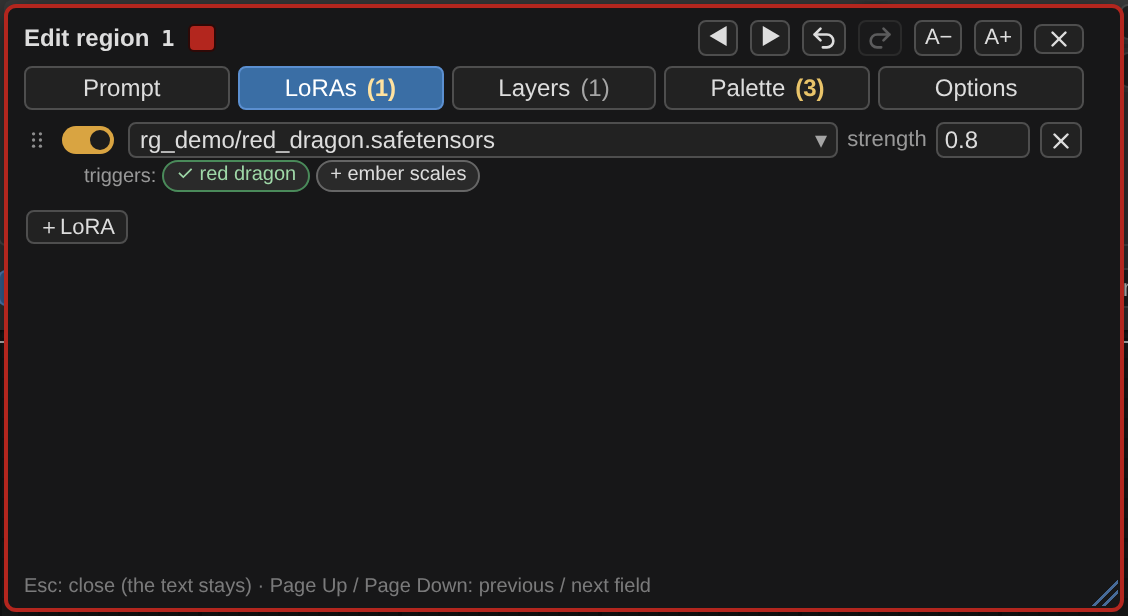
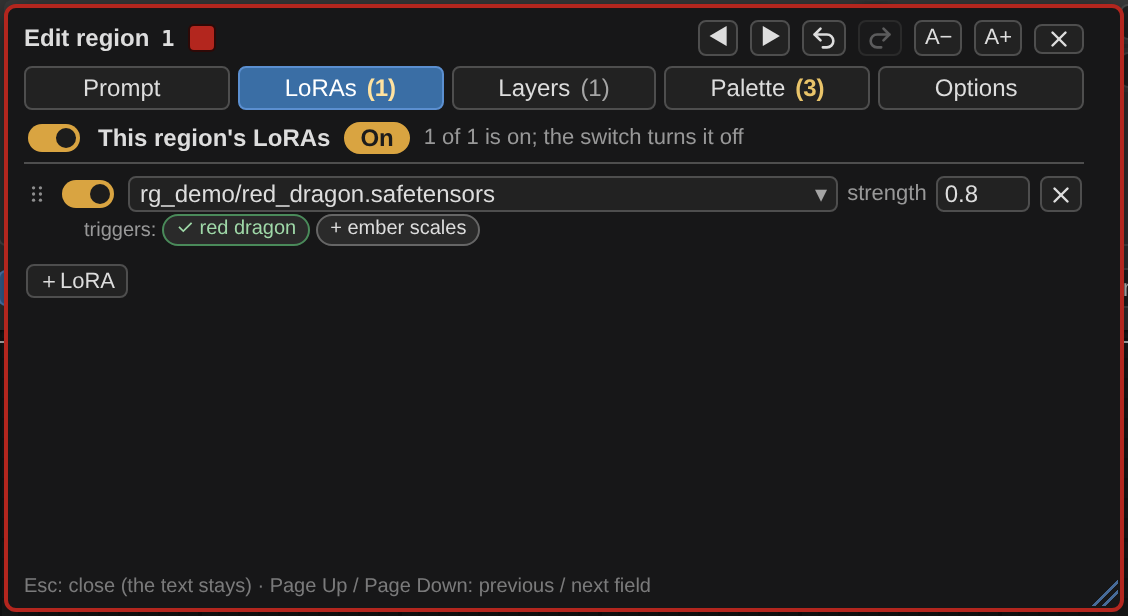
LoRAs tab: a switch for all of the list's LoRAs (this region's / the whole image's); a pop-up keeps the keyboard focus when its own control is redrawn
Claude-Session: https://claude.ai/code/session_01B5U1gpBZHxaHUVoHyaNrX1

Changed region(s): [[0.0, 0.1851, 0.9619, 0.4935]]

diff --git a/js/editor/popups.js b/js/editor/popups.js
@@ -120,6 +120,12 @@ export function* popups(E) {
         return true;
     }
     // never a scroll bar: when what a pop-up holds is taller than the pop-up (a LoRA was added), it grows, up to the window
+    // A control of a pop-up that is redrawn by its own click (a switch, a LoRA row) loses the keyboard focus with its
+    // old element: the pop-up takes it, so Esc and the Undo keys still reach it. Only when nothing else has the focus.
+    function popKeepFocus(box) {
+        const a = document.activeElement;
+        if (box.isConnected && (!a || a === document.body)) box.focus({ preventScroll: true });
+    }
     function popFit(box) {
         const over = box.scrollHeight - box.clientHeight, H = window.innerHeight;
         if (over <= 1) return;
@@ -127,7 +133,11 @@ export function* popups(E) {
         if (box.offsetTop + box.offsetHeight > H - 6) box.style.top = Math.max(6, H - 6 - box.offsetHeight) + "px";
     }
     // the LoRAs tab of a pop-up: the rows (or a line that says there are none), and ＋LoRA under them
-    function fillLoraTab(rowsBox, addBox, list, rows, tip, onAdd) {
+    // headBox, label: the switch for all of the list's LoRAs (round 90), above the rows while there are any
+    function fillLoraTab(headBox, label, rowsBox, addBox, list, rows, tip, onAdd) {
+        const sw = E.loraSwitch(list, label);
+        headBox.replaceChildren(...(sw ? [sw] : []));
+        headBox.style.display = sw ? "" : "none";
         if (E.ownLoras(list).length) rowsBox.replaceChildren(rows());
         else { const h = E.el("span", "rg-hint"); h.textContent = "No LoRAs here yet."; rowsBox.replaceChildren(h); }
         addBox.replaceChildren(E.ico("＋LoRA", tip, onAdd, "txt"));
@@ -325,11 +335,11 @@ export function* popups(E) {
         const tabs = popTabs([["prompt", "Prompt", TAB_TIPS.prompt], ["loras", "LoRAs", TAB_TIPS.loras], ["layers", "Layers", TAB_TIPS.layers],
                               ["palette", "Palette", TAB_TIPS.palette], ["options", "Options", TAB_TIPS.options]], tab,
                              (id) => { if (id === "prompt") prompt.ta.focus(); else box.focus(); });
-        const loraRowsBox = E.el("div", "rg-pop-lorarows"), loraAddBox = E.el("div", "rg-row rg-pop-addl");
+        const loraRowsBox = E.el("div", "rg-pop-lorarows"), loraAddBox = E.el("div", "rg-row rg-pop-addl"), loraHeadBox = E.el("div", "rg-pop-lorahead");
         const layerRowsBox = E.el("div", "rg-pop-layers"), layerBar = E.el("div", "rg-row rg-pop-addl");
         const palBox = E.el("div", "rg-pop-pal"), optBox = E.el("div", "rg-pop-opts");
         tabs.pane.prompt.append(types, prompt.wrapF, text.wrapF, dyn);
-        tabs.pane.loras.append(loraRowsBox, loraAddBox);
+        tabs.pane.loras.append(loraHeadBox, loraRowsBox, loraAddBox);
         tabs.pane.layers.append(layerRowsBox, layerBar);
         tabs.pane.palette.append(palBox);
         tabs.pane.options.append(optBox);
@@ -410,7 +420,7 @@ export function* popups(E) {
                 // the LoRAs tab (round 87; they were rows under the prompt)
                 const n = E.loraCount(rr.loras);
                 tabs.count("loras", n.all ? (n.on === n.all ? String(n.on) : `${n.on}/${n.all}`) : "", n.on > 0);
-                fillLoraTab(loraRowsBox, loraAddBox, rr.loras, () => E.regionLoraRows(rr, true),
+                fillLoraTab(loraHeadBox, "This region's LoRAs", loraRowsBox, loraAddBox, rr.loras, () => E.regionLoraRows(rr, true),
                     "Apply a LoRA to this region (model output; MOSS-Image, Krea 2, Ideogram 4, Flux, Anima, SDXL / SD1.5)",
                     (e) => { rr.loras = rr.loras || []; E.addLoraTo(rr.loras, e); });
                 ed.place();
@@ -424,7 +434,7 @@ export function* popups(E) {
                 if (!rect) { placeBy(box, { left: cr.left, right: cr.right, top: cr.top - 4, bottom: cr.top - 4 }, w, h, W, H, true); return; }
                 placeBy(box, { left: cr.left + rect.x0 * k, right: cr.left + rect.x1 * k, top: cr.top + rect.y0 * k - 2,
                                bottom: cr.top + rect.y1 * k + 2 }, w, h, W, H, true);
-            }); popFit(box); },
+            }); popFit(box); popKeepFocus(box); },
         };
         E.editor = ed;
         popFrame(ed, "region", head, () => (lastTa === text.ta ? "text" : "prompt"),
@@ -496,9 +506,9 @@ export function* popups(E) {
         // the scene prompt's pop-up has the whole image's LoRAs on a tab of their own (round 87); the others have one pane
         const tabs = popTabs(pos ? [["prompt", "Prompt", TAB_TIPS.prompt], ["loras", "LoRAs", TAB_TIPS.loras]] : [["prompt", "Prompt", TAB_TIPS.prompt]], tab,
                              (id) => { if (id === "prompt") ta.focus(); else box.focus(); });
-        const loraRowsBox = E.el("div", "rg-pop-lorarows"), loraAddBox = E.el("div", "rg-row rg-pop-addl");
+        const loraRowsBox = E.el("div", "rg-pop-lorarows"), loraAddBox = E.el("div", "rg-row rg-pop-addl"), loraHeadBox = E.el("div", "rg-pop-lorahead");
         tabs.pane.prompt.append(useRow, wrapF, dyn);
-        if (pos) tabs.pane.loras.append(loraRowsBox, loraAddBox);
+        if (pos) tabs.pane.loras.append(loraHeadBox, loraRowsBox, loraAddBox);
         box.tabIndex = -1;
         box.append(head, tabs.bar, tabs.panes, foot);
         document.body.appendChild(box);
@@ -526,7 +536,7 @@ export function* popups(E) {
                 dyn.replaceChildren(ctl);
                 const n = E.loraCount(E.state.sceneLoras);
                 tabs.count("loras", n.all ? (n.on === n.all ? String(n.on) : `${n.on}/${n.all}`) : "", n.on > 0);
-                fillLoraTab(loraRowsBox, loraAddBox, E.state.sceneLoras, () => E.loraRows(E.state.sceneLoras, {
+                fillLoraTab(loraHeadBox, "The whole image's LoRAs", loraRowsBox, loraAddBox, E.state.sceneLoras, () => E.loraRows(E.state.sceneLoras, {
                     pop: true, sceneOnly: true,
                     prompt: () => String(E.sceneW?.value ?? ""),
                     append: (words) => {
@@ -553,7 +563,7 @@ export function* popups(E) {
                 if (r && r.width) { placeBy(box, r, wd, h, W, H); return; }
                 const cr = E.cv.getBoundingClientRect();
                 placeBy(box, { left: cr.left, right: cr.right, top: cr.top - 4, bottom: cr.top - 4 }, wd, h, W, H, true);
-            }); popFit(box); },
+            }); popFit(box); popKeepFocus(box); },
         };
         E.editor = ed;
         popFrame(ed, "scene", head, () => "scene", () => applyPopFont(ta, "scene"), () => hist);

diff --git a/js/editor/list.js b/js/editor/list.js
@@ -8,7 +8,7 @@ import { PAL_MAX, normPalette, activePalette } from "./colors.js";
 export function* list(E) {
     Object.assign(E, {
         activateRegion, refreshUI, ico, chevron, grip, subHeader, toggleKind, updateExpandButtons, loraRows, addLoraTo, layerRows,
-        ownLoras, loraCount, loraButton, loraChips, toggleAllLoras, syncLoraAll, paletteTab,
+        ownLoras, loraCount, loraButton, loraChips, toggleAllLoras, syncLoraAll, paletteTab, loraSwitch,
         regionSwatch, featherBox, paletteToggle, paletteRow,
     });
     yield;
@@ -297,6 +297,33 @@ export function* list(E) {
         const on = own.filter((x) => x.on !== false);
         if (on.length) E.change(() => { for (const x of own) delete x.wasOn; for (const x of on) { x.on = false; x.wasOn = true; } });
         else if (own.some((x) => x.wasOn)) E.change(() => { for (const x of own) if (x.wasOn) { x.on = true; delete x.wasOn; } });
+    }
+    // The switch at the top of a pop-up's LoRAs tab (round 90): all LoRAs of that list off, and the same ones back on,
+    // as the header's button does for the whole node. On while any LoRA of the list is on (a click then turns the rest
+    // off too). With nothing switched off by a switch to bring back, On turns every LoRA of the list on.
+    // label: "This region's LoRAs" / "The whole image's LoRAs". Returns null for a list without LoRAs.
+    function loraSwitch(list, label) {
+        const own = ownLoras(list);
+        if (!own.length) return null;
+        const on = own.filter((x) => x.on !== false), back = own.filter((x) => x.wasOn).length, isOn = on.length > 0;
+        const head = E.el("label", "rg-pop-palhead rg-pop-lorasw" + (isOn ? " on" : ""));
+        const sw = E.el("input", "rg-switch"); sw.type = "checkbox"; sw.checked = isOn;
+        sw.title = isOn ? "Click to switch every LoRA of this list off. The next click switches the same ones back on."
+            : back ? "Click to switch the LoRAs back on that this switch (or the list's LoRAs button) switched off."
+            : "Click to switch every LoRA of this list on.";
+        sw.addEventListener("change", () => E.change(() => {
+            if (isOn) { for (const x of own) delete x.wasOn; for (const x of on) { x.on = false; x.wasOn = true; } }
+            else if (back) { for (const x of own) if (x.wasOn) { x.on = true; delete x.wasOn; } }
+            else for (const x of own) x.on = true;
+        }));
+        const name = E.el("span", "rg-pop-palname"); name.textContent = label;
+        const state = E.el("span", "rg-pop-palstate"); state.textContent = isOn ? "On" : "Off";
+        const note = E.el("span", "rg-hint"), n = own.length;
+        note.textContent = isOn ? `${on.length} of ${n} ${on.length === 1 && n === 1 ? "is" : "are"} on; the switch turns ${n === 1 ? "it" : "them all"} off`
+            : back ? (back === n ? `${n === 1 ? "it is" : `all ${n} are`} off; the switch turns ${n === 1 ? "it" : "them"} back on` : `all ${n} are off; the switch turns the ${back} back on that it switched off`)
+            : `${n === 1 ? "it is" : `all ${n} are`} off; the switch turns ${n === 1 ? "it" : "them all"} on`;
+        head.append(sw, name, state, note);
+        return head;
     }
     function syncLoraAll() {
         const b = E.loraAllBtn;

diff --git a/js/editor/style.js b/js/editor/style.js
@@ -204,6 +204,7 @@ input.rg-switch:checked::after { left:14px; background:#1c1c1c; }
 .rg-pop-palstate { font-weight:600; padding:0 7px; border-radius:8px; border:1px solid var(--border-color,#555); opacity:.75; }
 .rg-pop-palhead.on .rg-pop-palstate { background:#d9a441; border-color:#d9a441; color:#1c1c1c; opacity:1; }
 .rg-pop-palhead .rg-hint { white-space:normal; }
+.rg-pop-lorahead { padding:1px 0 4px; border-bottom:1px solid var(--border-color,#3a3a3a); }
 .rg-pop-palrow { display:flex; align-items:center; gap:6px; }
 .rg-pop-palrow.off .rg-sw.pal { opacity:.4; }
 .rg-pop-palrow .rg-sw.pal.big { width:30px; height:22px; border-radius:4px; border:1px solid rgba(0,0,0,.6); padding:0; cursor:pointer; flex:0 0 auto; }

diff --git a/docs/HANDOFF.md b/docs/HANDOFF.md
@@ -203,7 +203,7 @@ The owner asked for a UI / UX review (new users, regular users, look and feel) a
   - The README's Install section names the Manager first, then `comfy node install region-genie`, then a clone by hand (round 70). The repo is public since Nov 23, with a ruleset on `main` (pull request and the `python` / `editor` checks required), secret scanning with push protection, private vulnerability reporting and `SECURITY.md`; the tests run once per pull request and once per push to `main`.
   - The publish tool lints first (`ruff check . --select S102,S307,E702`: `exec`, `eval`, two statements joined by `;`) and will refuse these soon: keep every Python file, tests too, free of them (clean since round 71).
   - Releasing a version (owner's choice, round 71): raise the version (pyproject.toml and the README badge) and merge to `main`. The merge publishes by itself: `publish.yml` runs on a push to `main` that touches pyproject.toml and publishes when the `version` line differs from the commit before. Fallback: Actions > "Publish to Comfy registry" > Run workflow. A published version can't be changed, only deprecated on the Registry site, so a pull request that raises the version must be ready to release.
-  - GitHub Releases (round 86): `.github/workflows/release.yml` makes the tag `v<version>` and a release "Region Genie <version>" with GitHub's generated notes (the pull requests merged since the release before), on a push to `main` that touches pyproject.toml, when no release of that version exists; also by hand (Actions > "GitHub release"). It is its own workflow, not a step of the publish one, so it can be run again without publishing. No releases existed before 0.57.0.
+  - GitHub Releases (round 86): `.github/workflows/release.yml` makes the tag `v<version>` and a release "Region Genie <version>" with GitHub's generated notes (the pull requests merged since the release before), on a push to `main` that touches pyproject.toml, when no release of that version exists; also by hand (Actions > "GitHub release"). It is its own workflow, not a step of the publish one, so it can be run again without publishing. No releases existed before 0.57.0. The owner added the file to `main` by hand on Nov 26 and ran it once: release v0.57.0 exists.
   - Checked before going public (round 70): no key, token, personal path or address in the files or in any commit; no `eval` / `exec`, runtime installs or outbound requests (the Registry's security standards).
 - **Example workflows (round 66):** `example_workflows/NN-<model>.json`, eleven files (ComfyUI's preferred folder name: it lists them under Templates). `tests/make_examples.cjs` holds the specs (`SPECS`: loaders, file names with download links (`F`), sampler nodes and links, all taken from ComfyUI's own templates in `comfyui_workflow_templates`) and builds each graph in the real page: the regions are drawn with the mouse, the loaders get `properties.models`, a MarkdownNote lists the files. Flux.2 and Ideogram 4 connect the node's `width` / `height` outputs to their schedulers. The model pick stays automatic (the node reads the loader's file name). Seed 1, fixed, in every file; separation 0.85 / until 0.1 written by the script; the Anima file has the owner's settings (RDBT finetune, shareBg, style tags). The files are written from `graphToPrompt().workflow`, as ComfyUI's Save does (round 67: `graph.serialize()` alone keeps a socket entry for every widget, which showed as stray sockets on the owner's machine). Both MOSS-Image files have skip-layer guidance. The README's Quick start diagram is a drawn picture (round 70; Mermaid until then): `tests/make_diagram.py` writes `docs/images/quickstart-dark.svg` and `quickstart-light.svg`, and the README picks one with `<picture>` and `prefers-color-scheme`. That follows the system's setting, not a GitHub theme set by hand against it, so each file has its own panel (a rounded rectangle in its own background color) and reads well on either page. The owner wanted the vae arrow from the loader's bottom to VAE Decode's bottom with the row straight, which Mermaid can't draw.
 - **Help pages:** `js/docs/<node id>.md` for all six nodes; ComfyUI fetches `/extensions/<pack>/docs/<node>/<locale>.md`, then `<node>.md`, and shows it under **Node Info** (toolbar of a selected node, Info tab of the side panel). English only. `js/docs/region-genie-parts.png` is a copy of `docs/images/editor-numbered.png`, made by `node tests/shot_readme.cjs` (running ComfyUI, legacy mode): retake it when the node's look changes.
@@ -242,6 +242,7 @@ The owner chose layout B from three mock-ups (a ⋯ menu; inside the opened regi
 - Palette tab: `paletteTab(box, r, st)` in `list.js`; `st` (`ed.pal`) keeps the selected color, the inline picker and an undo snapshot between refreshes, so a redraw doesn't end a drag. A change is committed as one undo step half a second after the color rests (`st.flush`, also when the pop-up closes). `openColorPicker(null, hex, { inline: host })` builds the picker into the tab (no window, no outside-click close; `set(hex)`).
 - Options tab: `optLine(label, ...controls)`; feather, Edit Mode's keep, the Control switch, order, show / hide, delete.
 - `popUndoKeys`: Undo / Redo of the editor while no text field has the cursor (a pop-up used to swallow them).
+- `loraSwitch(list, label)` (`list.js`, round 90): the switch at the top of a LoRAs tab, in `.rg-pop-lorahead`; off marks the LoRAs it switched off `wasOn` (as the header's button does, and the header's "back on" brings those back too); on with nothing marked turns the whole list on.
 - Test hooks: `node.__rgEditTab(rid, tab)`, `node.__rgCloseEditor()`.
 
 **The canvas labels (`render.js` `drawLabels`).** Inside a region the number badge and the marks are a line above the text, centered (`it.top = { headW, headH }`); a region too low for that keeps them before the text. Marks: `LABEL_MARKS.person` / `object` / `text` (and `lock` in Edit Mode). Settings: `cmLabelPad` (3%), `cmLabelAlign` (left / center).

diff --git a/docs/CHANGELOG.md b/docs/CHANGELOG.md
@@ -2,6 +2,11 @@
 
 Each round is one request from the owner: what was asked, what was decided (and by whom), what was built and how it was tested. Later rounds sometimes reverse earlier ones; `docs/HANDOFF.md` section 4 has the current design. Test file names are the current ones (renamed by subject in round 24; e.g. `real_comfy12.cjs` is now `real_fields_popups.cjs`).
 
+## Round 90 (Nov 26): a switch for all of one list's LoRAs
+- Asked: like the header's button, a switch for all of one region's LoRAs. Shown as a mock-up at the top of the LoRAs tab; the owner confirmed it, with the same line for the whole image under its own label, On while any LoRA is on, and no line for an empty list. The owner also added `release.yml` to `main` by hand and made the 0.57.0 release with it; `main` was merged into the working branch.
+- Built: `loraSwitch`; "This region's LoRAs" / "The whole image's LoRAs".
+- Tested: `run_ui.sh` (new checks in `ui_editor.cjs`), tooltips and layering on real ComfyUI.
+
 ## Round 89 (Nov 26): the header's LoRA switch as words; counts in brackets
 - Asked: other signs than the power icon for the header's switch; later a switch per region too.
 - Shown: six options (power, power crossed out when off, lightning, a switch, a plug, the word). The owner chose the word, and asked for every count on a LoRA button to stand in brackets.

diff --git a/docs/region-genie.md b/docs/region-genie.md
@@ -261,6 +261,7 @@ Everything a region holds is in its pop-up, on five tabs. Open it with the **⤢
 - A number on a tab says how much is there (*LoRAs (2/3)*: two of three are on); amber means something there is switched on.
 - **Lists are reordered by their grips:** drag a LoRA or a layer by the six dots at the start of its row.
 - *Whole image* has no layers or palette: its LoRAs are on a **LoRAs** tab in the pop-up of `scene_prompt_positive`. Its row shows the LoRAs that are on as chips (name and strength; a long name is cut short, a *+2* chip stands for those that don't fit), and the same LoRAs button as a region's row.
+- **A list's LoRAs off:** the switch at the top of a LoRAs tab (*This region's LoRAs*, or *The whole image's LoRAs*) turns every LoRA of that list off; the next click turns the same ones back on. It says *On* while any of them is on.
 - **All LoRAs off:** the amber *LoRAs (7)* button in the list's header shows how many LoRAs are on in the node (*LoRAs off* when none is). A click switches every one off; the next click switches the same ones back on.
 
 ### Feather
